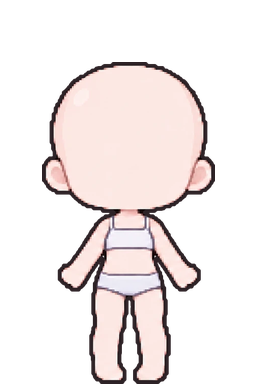
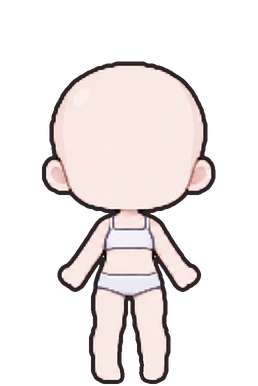
기본 몸을 선생님이 그린 새 몸으로 (발 모양), 테두리 4px로 고르게, 피부색 5가지·귀 층도 새 몸에서 / 상의 4개 추가: 빨간 로봇 슈트·소방관 옷·우주인 점퍼·군복 셔츠 (흰 배경 지우고 테두리 정리)
Claude-Session: https://claude.ai/code/session_015VxnKS3baGbwJXJNNp74ix

diff --git a/avatar.js b/avatar.js
@@ -12,7 +12,7 @@ const AV_NAMES = {
   hair: ["앞머리 양 똥머리", "앞머리 똥머리", "어깨 웨이브", "양 갈래 머리", "앞머리 단발", "가르마 짧은 머리", "쉼표 머리", "앞머리 긴 웨이브", "삐죽 머리", "곱슬 머리", "올린 삐죽 머리", "옆 가르마 머리"],
   top: ["세일러 블라우스", "크림 후드티", "검정 재킷", "분홍 가디건", "고양이 후드티", "흰 셔츠", "곰돌이 니트", "검정 프릴 블라우스", "줄무늬 티", "하얀 패딩", "빨간 망토", "카키 야상", "멜빵 원피스", "검정 후드티", "레이스 블라우스", 
     "검정 도복", "가죽 재킷", "산타 옷", "산타 원피스", "요정 옷", "눈사람 옷", "진저브레드 옷", "루돌프 옷", "트리 스웨터 잠옷", "호두까기 인형 옷", "의사 가운 세트", "요리사 세트", "멜빵바지 세트", "승무원 세트", "기장 세트", 
-    "가디건 세트", "흰 가운 세트", "흰 도복 세트"],
+    "가디건 세트", "흰 가운 세트", "흰 도복 세트", "빨간 로봇 슈트", "소방관 옷", "우주인 점퍼", "군복 셔츠"],
   shoes: ["맨발", "민트 운동화", "빨간 찍찍이 운동화", "곰돌이 슬리퍼", "검정 운동화", "하늘 고무신발", "남색 슬립온", "갈색 구두", "노란 운동화"],
   eye: ["기본 눈", "날렵한 눈", "졸린 눈", "웃는 눈", "윙크", "반짝 눈", "울먹 눈", "화난 눈", "옆 보는 눈", "걱정 눈", "놀란 눈", "시큰둥 눈", "하트 눈", "빙글빙글 눈", "속눈썹 눈", "점 눈"],
   cheek: ["볼터치 없음", "볼 정중앙", "콧잔등 + 주근깨", "볼 정중앙 + 주근깨", "빗금 볼터치", "작은 동그라미", "콧잔등", "크게 발그레"],
@@ -25,7 +25,7 @@ AV_NAMES.pet = ["펫 없음", "강아지", "삼색 고양이", "토끼", "햄스
 const AV_PRICE = { // 0이면 무료 (기본으로 입는 것)
   pet: [0, 12, 12, 12, 12, 12, 14, 16, 18, 16, 16, 18, 20, 14, 14, 14, 14, 15, 15, 16, 15],
   hair: [9, 8, 8, 8, 0, 6, 6, 8, 0, 8, 7, 6],
-  top: [8, 7, 9, 7, 9, 0, 8, 9, 0, 9, 10, 9, 9, 8, 10, 10, 11, 14, 14, 14, 13, 13, 13, 12, 14, 12, 12, 11, 12, 12, 10, 12, 11],
+  top: [8, 7, 9, 7, 9, 0, 8, 9, 0, 9, 10, 9, 9, 8, 10, 10, 11, 14, 14, 14, 13, 13, 13, 12, 14, 12, 12, 11, 12, 12, 10, 12, 11, 12, 10, 12, 9],
   shoes: [0, 0, 6, 8, 5, 6, 5, 7, 6],
   eye: Array(16).fill(0),
   mouth: Array(16).fill(0),
@@ -37,7 +37,7 @@ const AV_REQ = { pet: "pet-0", shoes: "shoes-1", eye: "eye-0", mouth: "mouth-0",
 const AV_ACC = []; // 장신구 칸 (아직 없음)
 const AV_TABS = [["eye", "눈"], ["mouth", "입"], ["cheek", "볼터치"], ["hair", "헤어"], ["top", "상의"], ["bottom", "하의"], ["full", "한벌"], ["shoes", "신발"], ["pet", "펫"]];
 const AV_FULL = new Set(["top-17","top-18","top-19","top-20","top-21","top-22","top-23","top-24","top-25","top-26","top-27","top-28","top-29","top-30","top-31","top-32"]); // 위아래 한 벌 옷: 입으면 하의를 안 그림. 가게에서는 '한벌' 칸
-const AV_V = "?v=18"; // 그림을 고치면 숫자를 올림 (브라우저에 남은 옛 그림 대신 새로 받게)
+const AV_V = "?v=19"; // 그림을 고치면 숫자를 올림 (브라우저에 남은 옛 그림 대신 새로 받게)
 const AV_HIDE = new Set(["shoes-0"]); // 가게에 안 보이는 것 (맨발: 그림 없음)
 const avInTab = (it, k) => !AV_HIDE.has(it.id) && (k === "acc" ? AV_ACC.includes(it.slot) : k === "full" ? AV_FULL.has(it.id) : k === "top" ? it.slot === "top" && !AV_FULL.has(it.id) : it.slot === k); // 가게 칸에 보일 물건
 // 단위에 맞춘 글: "3 으쓱이 모자라요", "3으쓱으로 바꾸기" (이/가, 으로/로)

diff --git a/index.html b/index.html
@@ -1667,7 +1667,7 @@
     <button class="danger" onclick="resetEverything()">모든 데이터 초기화</button>
   </section>
 </div>
-<script src="avatar.js?v=18"></script><!-- 아바타를 고치면 avatar.js의 AV_V와 같이 숫자를 올림 -->
+<script src="avatar.js?v=19"></script><!-- 아바타를 고치면 avatar.js의 AV_V와 같이 숫자를 올림 -->
 <script>
 setTimeout(() => document.body.classList.add("ready"), 2000); // 혹시 아래에서 오류가 나도 2초 뒤엔 카드를 보여 줌
 // 다른 창(듀얼 모니터)으로 뗀 카드: { 카드: { w: 창, c: 카드, mark: 보드에 돌아올 자리, np: 글자 도구 창 } }

diff --git a/student.html b/student.html
@@ -159,7 +159,7 @@
     </div>
   </div>
 </div>
-<script src="avatar.js?v=18"></script><!-- 아바타를 고치면 avatar.js의 AV_V와 같이 숫자를 올림 -->
+<script src="avatar.js?v=19"></script><!-- 아바타를 고치면 avatar.js의 AV_V와 같이 숫자를 올림 -->
 <script type="module">
 // 서버: classes/{반 코드} = { unit, prices } · classes/{반 코드}/kids/{번호}-{비밀번호} = { n, pt, av, wear, own, buys, kidAt } (이름 없음)
 // 점수는 선생님 보드만 바꿈. 가게 물건은 입어 보기만 하다가 저장할 때 삼(buys에 남김). 선생님 보드가 받아서 점수를 뺌

diff --git a/av/hairuser.py b/av/hairuser.py
@@ -20,3 +20,28 @@ for f in glob.glob('raw_user/*-2x.png'):
   if n.startswith('top-'): # 옷: 테두리를 매끈하고 같은 굵기로 다시 그림 (outline.py, 다른 옷과 같게)
     col, al = uniform(a[..., 3] > 128, a[..., :3], 2); a = np.dstack([col, al * 255])
   Image.fromarray(a.round().clip(0, 255).astype(np.uint8)).resize((258, 386), Image.LANCZOS).save(f'{n}.png', optimize=True)
+# 몸(raw_user/base-2x.png): 흰 배경 지우고 테두리 4px로 고르게 → base-0, 피부색 4개 더(base-1~4: 예전 피부색 비율로), 귀만 떼어 ear-0~4 (귀 보이는 머리 위에 그림)
+SKIN = [[248, 225, 221], [246, 210, 198], [229, 186, 169], [201, 152, 139], [143, 103, 96]]  # 피부 평균색 (예전 base-0~4에서 잼)
+if os.path.exists('raw_user/base-2x.png'):
+  a = np.array(Image.open('raw_user/base-2x.png').convert('RGBA').crop((0, 0, 516, 772))).astype(float)
+  wh = (a[..., 3] < 30) | (a[..., :3].min(-1) > 200)
+  lab, _ = ndimage.label(wh); out = np.isin(lab, np.unique(np.r_[lab[0], lab[-1], lab[:, 0], lab[:, -1]])) & (lab > 0)
+  for _ in range(2): out |= ndimage.binary_dilation(out) & (a[..., :3].min(-1) > 170) & (a[..., 3] > 0)
+  a[out, 3] = 0
+  col, al = uniform(a[..., 3] > 128, a[..., :3], 2, R=4.0, D=4.5)  # 몸 테두리는 옷(3px)보다 조금 굵게 4px
+  b0 = np.array(Image.fromarray(np.dstack([col, al * 255]).round().clip(0, 255).astype(np.uint8)).resize((258, 386), Image.LANCZOS)).astype(float)
+  rgb = b0[..., :3]; pale = (b0[..., 3] > 0) & (rgb.min(-1) > 175) & (rgb[..., 0] - rgb[..., 2] < 14)  # 흰·회색
+  lab, n = ndimage.label(pale); big = np.isin(lab, 1 + np.nonzero(ndimage.sum(pale, lab, range(1, n + 1)) > 60)[0])
+  under = ndimage.binary_dilation(big, iterations=1) & (b0[..., 3] > 0) & (rgb.min(-1) > 120)  # 속옷(큰 흰 덩어리)만 그대로
+  skin = (b0[..., 3] > 0) & ~under  # 나머지(피부·테두리 번짐·볼)는 피부색 비율로
+  # 귀: 머리를 원으로 맞춰(귀 위쪽 줄들의 폭으로) 원 안쪽은 빼고, 귀 높이의 양옆만
+  A = b0[..., 3] > 128; ys = np.array([y for y in range(66, 140) if A[y].any()]); w = np.array([np.ptp(np.nonzero(A[y])[0]) / 2 + .5 for y in ys])
+  M = np.c_[2 * ys, np.ones_like(ys)]; (cy, c0), *_ = np.linalg.lstsq(M, w ** 2 + ys ** 2, rcond=None); R = np.sqrt(c0 + cy ** 2); cx = 128.5
+  Y, X = np.mgrid[:386, :258]; dd = np.hypot(X - cx, Y - cy); side = (X < 75) | (X > 183)
+  out = A & (dd > R + 2) & side & (Y > 120) & (Y < 220)  # 머리 원 밖으로 확실히 나온 곳 = 귀
+  rows = np.nonzero(out.any(1))[0]; ear = A & (dd > R - 3) & side & (Y >= rows.min() - 1) & (Y <= rows.max() + 1)  # 귀 높이 안에서 머리 테두리에 붙은 데까지
+  ear = ndimage.binary_dilation(ear, iterations=1) & (b0[..., 3] > 0)
+  for k, sc in enumerate(SKIN):
+    bk = b0.copy(); f = np.array(sc) / np.array(SKIN[0]); bk[skin, :3] = (rgb[skin] * f).clip(0, 255)
+    Image.fromarray(bk.round().astype(np.uint8)).save(f'base-{k}.png', optimize=True)
+    ek = bk.copy(); ek[~ear, 3] = 0; Image.fromarray(ek.round().astype(np.uint8)).save(f'ear-{k}.png', optimize=True)
